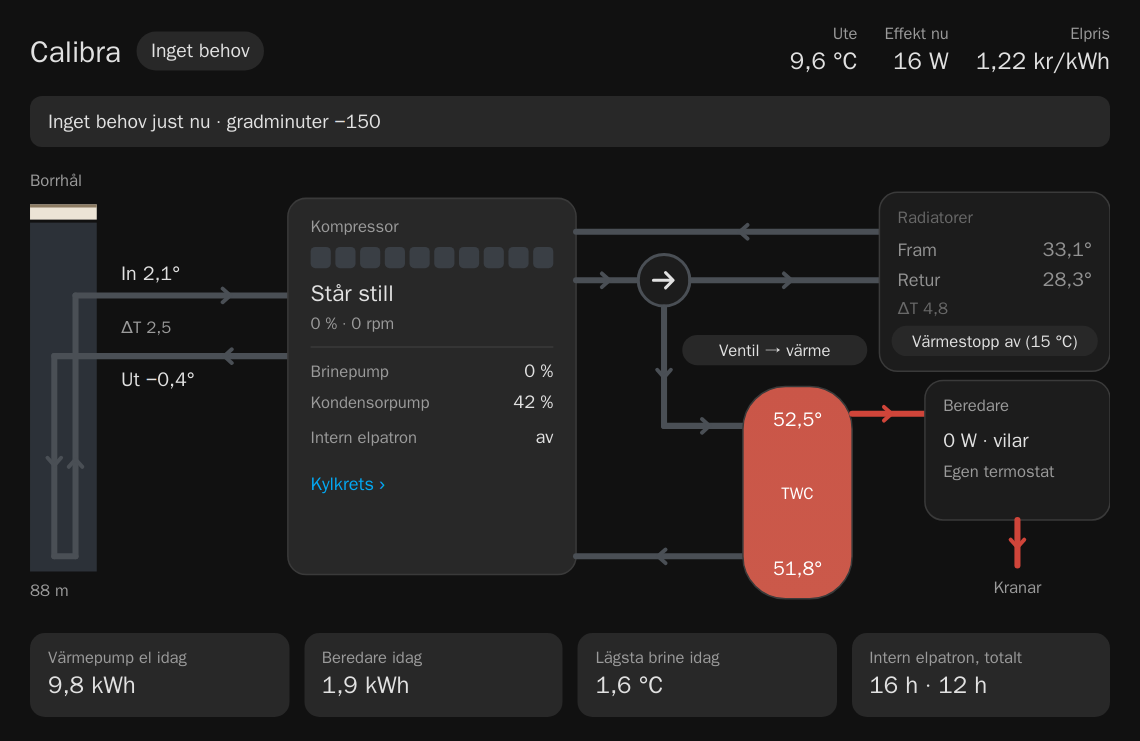
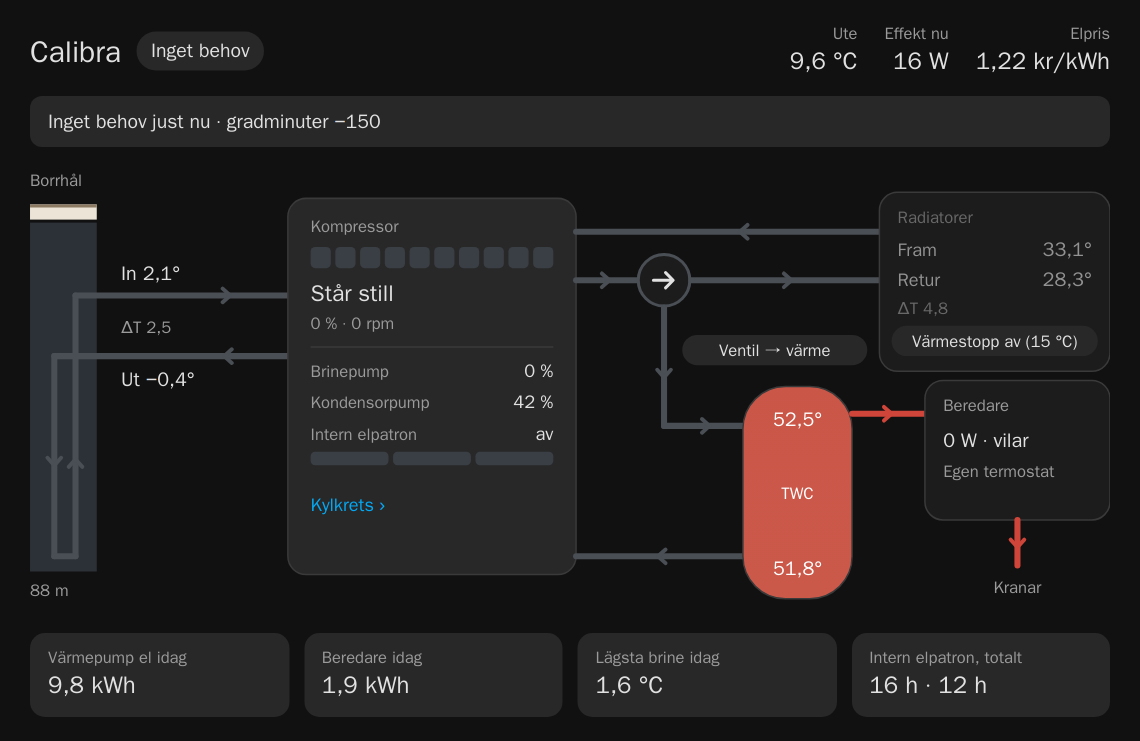
Immersion heater step bar like the compressor gears (0.2.0)

Changed region(s): [[0.2763, 0.5587, 0.4912, 0.7139]]

diff --git a/dist/calibra-card.js b/dist/calibra-card.js
@@ -9,7 +9,7 @@
  * MIT License
  */
 
-const CARD_VERSION = "0.1.1";
+const CARD_VERSION = "0.2.0";
 
 // Entity defaults: the thermiagenesis entity ids. Anything else (power meter, price, the
 // valve, the water heater) is site specific and only shown when configured.
@@ -53,7 +53,7 @@ const COLORS = {
   heat: "#d9622b", heatRet: "#f0a77f",
   hw: "#d0453a", hwRet: "#ec9a92",
   tap: "#d0453a", idle: "var(--calibra-idle, #c9cdd2)",
-  gear: "#2f6fb3", gearLimited: "#b26b00",
+  gear: "#2f6fb3", gearLimited: "#b26b00", immersion: "#d9822b",
 };
 
 const T = {
@@ -61,7 +61,7 @@ const T = {
     title: "Värmepump", borehole: "Borrhål", in: "In", out: "Ut", compressor: "Kompressor",
     gearOf: (g, m) => `Växel ${g} av ${m}`, gearOfAllowed: (g, m) => `Växel ${g} av ${m} tillåtna`,
     stopped: "Står still", brinePump: "Brinepump", condPump: "Kondensorpump", immersion: "Intern elpatron", immersionShort: "Elpatron",
-    off: "av", on: "på", step: (s) => `steg ${s}`, circuit: "Kylkrets ›", radiators: "Radiatorer", supply: "Fram", ret: "Retur",
+    off: "av", on: "på", step: (s) => `steg ${s}`, stepOf: (s, n) => `steg ${s} av ${n}`, circuit: "Kylkrets ›", radiators: "Radiatorer", supply: "Fram", ret: "Retur",
     valve: "Ventil →", toHeat: "värme", toTap: "varmvatten", heater: "Beredare", heaterSub: "Egen termostat",
     heaterIdle: "vilar", heaterOn: "värmer", taps: "Kranar", outdoor: "Ute", power: "Effekt nu", price: "Elpris",
     heatStopOn: (t) => `Värmestopp på${t}`, heatStopOff: (t) => `Värmestopp av${t}`, limit: (t) => ` (${t})`, gearShort: (g, m) => `Växel ${g}/${m}`,
@@ -83,7 +83,7 @@ const T = {
     title: "Heat pump", borehole: "Borehole", in: "In", out: "Out", compressor: "Compressor",
     gearOf: (g, m) => `Gear ${g} of ${m}`, gearOfAllowed: (g, m) => `Gear ${g} of ${m} allowed`,
     stopped: "Stopped", brinePump: "Brine pump", condPump: "Condenser pump", immersion: "Immersion heater", immersionShort: "Immersion",
-    off: "off", on: "on", step: (s) => `step ${s}`, circuit: "Refrigerant ›", radiators: "Radiators", supply: "Supply", ret: "Return",
+    off: "off", on: "on", step: (s) => `step ${s}`, stepOf: (s, n) => `step ${s} of ${n}`, circuit: "Refrigerant ›", radiators: "Radiators", supply: "Supply", ret: "Return",
     valve: "Valve →", toHeat: "heating", toTap: "hot water", heater: "Water heater", heaterSub: "Own thermostat",
     heaterIdle: "idle", heaterOn: "heating", taps: "Taps", outdoor: "Outdoor", power: "Power", price: "Price",
     heatStopOn: (t) => `Heating stop on${t}`, heatStopOff: (t) => `Heating stop off${t}`, limit: (t) => ` (${t})`, gearShort: (g, m) => `Gear ${g}/${m}`,
@@ -280,7 +280,7 @@ class CalibraCard extends HTMLElement {
       gearText: running ? (limited ? t.gearOfAllowed(gear, maxAllowed) : t.gearOf(gear, gears)) : t.stopped,
       speed: `${fmt(n("compressor_pct"), 0, "%", lang)} · ${fmt(n("compressor_rpm"), 0, "rpm", lang)}`,
       brinePump: fmt(n("brine_pump"), 0, "%", lang), condPump: fmt(n("condenser_pump"), 0, "%", lang),
-      immersion: e.immersion ? { on: immersion, text: !immersion ? t.off : str(hass, e.immersion) === "on" ? t.on : t.step(str(hass, e.immersion)) } : null,
+      immersion: e.immersion ? this._immersionModel(immersion) : null,
       supply: heatOn || heatStop ? fmt(n("condenser_out"), 1, "°", lang) : fmt(n("condenser_out"), 1, "°", lang),
       ret: fmt(n("condenser_in"), 1, "°", lang),
       heatDt: n("condenser_out") !== null && n("condenser_in") !== null ? fmt(n("condenser_out") - n("condenser_in"), 1, "", lang) : "–",
@@ -295,6 +295,21 @@ class CalibraCard extends HTMLElement {
         brine: fmt(this._stats.brine, 1, "°C", lang),
         imm: immHours.length ? immHours.map((h) => fmt(h, 0, "h", lang)).join(" · ") : null,
       },
+    };
+  }
+
+  // Step sensor (0..n) or binary sensor; a binary "on" counts as step 1.
+  _immersionModel(on) {
+    const t = this._t, lang = this._lang, raw = str(this._hass, this._config.entities.immersion);
+    const n = Math.max(1, Math.round(this._config.immersion_steps ?? 3));
+    const step = !on ? 0 : raw === "on" ? 1 : Math.min(n, Math.max(1, Math.round(parseFloat(raw) || 1)));
+    const kw = this._config.immersion_step_kw;
+    const power = on && kw ? ` · ${fmt(step * kw, 0, "kW", lang)}` : "";
+    return {
+      on,
+      steps: Array.from({ length: n }, (_, i) => i < step),
+      text: on ? `${t.stepOf(step, n)}${power}` : t.off,
+      short: on ? `${t.step(step)}${power}` : t.off,
     };
   }
 
@@ -341,6 +356,11 @@ class CalibraCard extends HTMLElement {
     }).join("");
 
     const tankId = "tg";
+    // Immersion heater steps, drawn like the compressor's gears
+    const immBar = (x, y, h) => {
+      const st = m.immersion.steps, w = (160 - 3 * (st.length - 1)) / st.length;
+      return st.map((on, i) => `<rect x="${(x + i * (w + 3)).toFixed(2)}" y="${y}" width="${w.toFixed(2)}" height="${h}" rx="3" fill="${on ? c.immersion : "var(--calibra-seg, #e3e6ea)"}"/>`).join("");
+    };
     const hpRows = [
       [t.brinePump, m.brinePump, e.brine_pump],
       [t.condPump, m.condPump, e.condenser_pump],
@@ -374,11 +394,13 @@ class CalibraCard extends HTMLElement {
     ${txt(185, 142, m.speed, "lbl opt", e.compressor_pct)}
     <line x1="185" y1="154" x2="345" y2="154" class="div opt"/>
     ${hpRows.map(([l, v, ent], i) => `${txt(185, 174 + i * 20, l, "lbl opt")}${txt(345, 174 + i * 20, v, "sm opt", ent, "end")}`).join("")}
-    ${m.immersion ? `<g class="opt">${m.immersion.on ? `<rect x="179" y="203" width="172" height="20" rx="6" fill="var(--calibra-warn-bg, #fff4dc)"/>` : ""}
-      ${txt(185, 217, t.immersion, m.immersion.on ? "sm warn" : "lbl")}${txt(345, 217, m.immersion.text, m.immersion.on ? "sm warn strong" : "sm", e.immersion, "end")}</g>
-    <g class="short imm-compact">${m.immersion.on ? `<rect x="179" y="166" width="172" height="28" rx="6" fill="var(--calibra-warn-bg, #fff4dc)"/>` : ""}
-      ${txt(185, 187, t.immersionShort, m.immersion.on ? "lbl warn" : "lbl")}${txt(345, 187, m.immersion.text, m.immersion.on ? "sm warn strong" : "sm", e.immersion, "end")}</g>` : ""}
-    ${txt(185, 248, t.circuit, "link")}
+    ${m.immersion ? `<g class="opt">${m.immersion.on ? `<rect x="179" y="201" width="172" height="38" rx="6" fill="var(--calibra-warn-bg, #fff4dc)"/>` : ""}
+      ${txt(185, 215, t.immersion, m.immersion.on ? "sm warn" : "lbl")}${txt(345, 215, m.immersion.text, m.immersion.on ? "sm warn strong" : "sm", e.immersion, "end")}
+      ${immBar(185, 223, 9)}</g>
+    <g class="short imm-compact">${m.immersion.on ? `<rect x="179" y="162" width="172" height="46" rx="6" fill="var(--calibra-warn-bg, #fff4dc)"/>` : ""}
+      ${txt(185, 183, t.immersionShort, m.immersion.on ? "lbl warn" : "lbl")}${txt(345, 183, m.immersion.short, m.immersion.on ? "sm warn strong" : "sm", e.immersion, "end")}
+      ${immBar(185, 192, 10)}</g>` : ""}
+    ${txt(185, 262, t.circuit, "link")}
   </g>
 
   ${pipe(360, 78, 560, 78, col.heatRet)}

diff --git a/test/card.test.js b/test/card.test.js
@@ -59,6 +59,7 @@ function card(over = {}, config = {}, lang = "sv") {
 }
 
 const html = (c) => c.shadowRoot.innerHTML;
+const count = (s, needle) => s.split(needle).length - 1;
 
 test("heating: radiator branch live, valve points right, demand translated", () => {
   const c = card();
@@ -191,4 +192,15 @@ test("compact mode keeps an immersion heater row", () => {
   const h = html(c);
   assert.match(h, /class="wrap compact"/);
   assert.match(h, /class="short imm-compact"[\s\S]*?>Elpatron<[\s\S]*?>steg 2</);
+});
+
+test("immersion heater steps are drawn like gears", () => {
+  const c = card({ "sensor.immersion_step": "2" }, { immersion_steps: 3, immersion_step_kw: 3 });
+  const m = c._model();
+  assert.deepEqual(m.immersion.steps, [true, true, false]);
+  assert.equal(m.immersion.text, "steg 2 av 3 · 6 kW");
+  assert.equal(count(html(c), 'fill="#d9822b"'), 4);   // two steps, full and compact bars
+  const off = card()._model().immersion;
+  assert.deepEqual(off.steps, [false, false, false]);
+  assert.equal(off.text, "av");
 });

diff --git a/README.md b/README.md
@@ -5,7 +5,8 @@ A Lovelace card for a **Thermia Calibra / Diplomat Inverter** ground source heat
 It draws the system as it is actually plumbed:
 
 - **Borehole:** brine in and out, ΔT, and the depth.
-- **Compressor:** current gear against the allowed maximum (blocked gears are hatched), speed, pumps, and the internal immersion heater.
+- **Compressor:** current gear against the allowed maximum (blocked gears are hatched), speed and pumps.
+- **Internal immersion heater:** its active step, drawn as a bar like the gears.
 - **Diverting valve:** splits the supply between the radiators and the TWC tank. The arrow turns and the inactive branch greys out.
 - **Radiators:** supply, return, ΔT and heating stop (on/off and its limit).
 - **TWC tank:** top and bottom temperature, coloured by temperature.
@@ -73,6 +74,8 @@ notices:
 | `entities.<key>` | Override any entity. The keys are listed in `DEFAULT_ENTITIES` at the top of `dist/calibra-card.js`. |
 | `entities.valve` | Binary sensor that is `on` while the valve points to hot water. Without it the card infers the valve position from the demand. |
 | `entities.immersion` | Binary sensor (`on`) or step sensor (`> 0`) for the internal immersion heater. Thermiagenesis has these entities, but they are disabled by default. |
+| `immersion_steps` | Number of immersion heater steps drawn as a bar like the compressor's gears (default `3`). |
+| `immersion_step_kw` | Optional kW per step; adds e.g. "· 6 kW" next to the active step. |
 | `notices` | A list of `{entity, state (default "on"), text}`. Each text is added to the explanation line while its entity is in that state. |
 
 "Today" values (energy and the lowest brine temperature) come from long-term statistics and refresh every 5 minutes.

diff --git a/CHANGELOG.md b/CHANGELOG.md
@@ -1,5 +1,10 @@
 # Changelog
 
+## 0.2.0 — 2026-10-24
+
+- The internal immersion heater gets a step bar like the compressor's gears, in both layouts: "steg 1 av 3".
+- New options: `immersion_steps` (default 3) and `immersion_step_kw`.
+
 ## 0.1.1 — 2026-10-24
 
 - The compact layout (below 560 px) also shows the immersion heater row in the compressor box: "Elpatron av", or highlighted with the active step.
